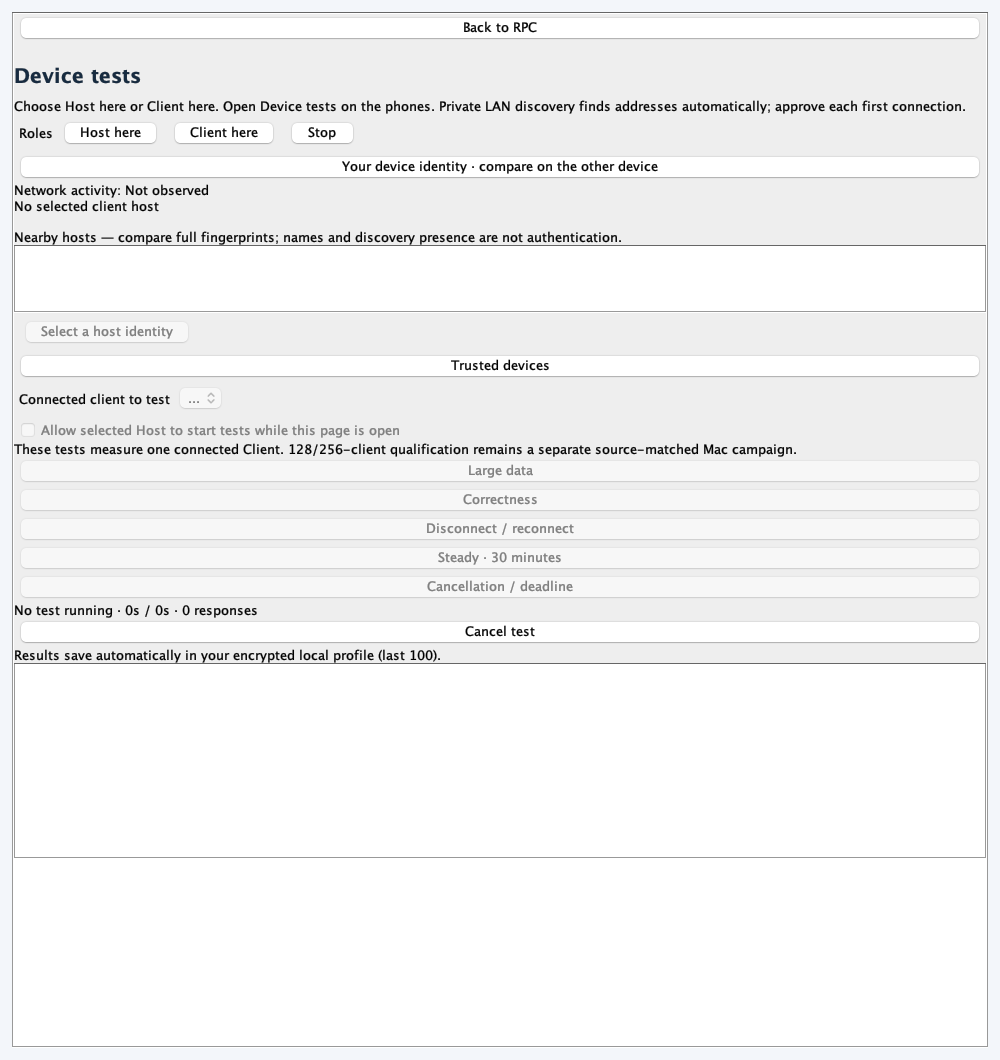
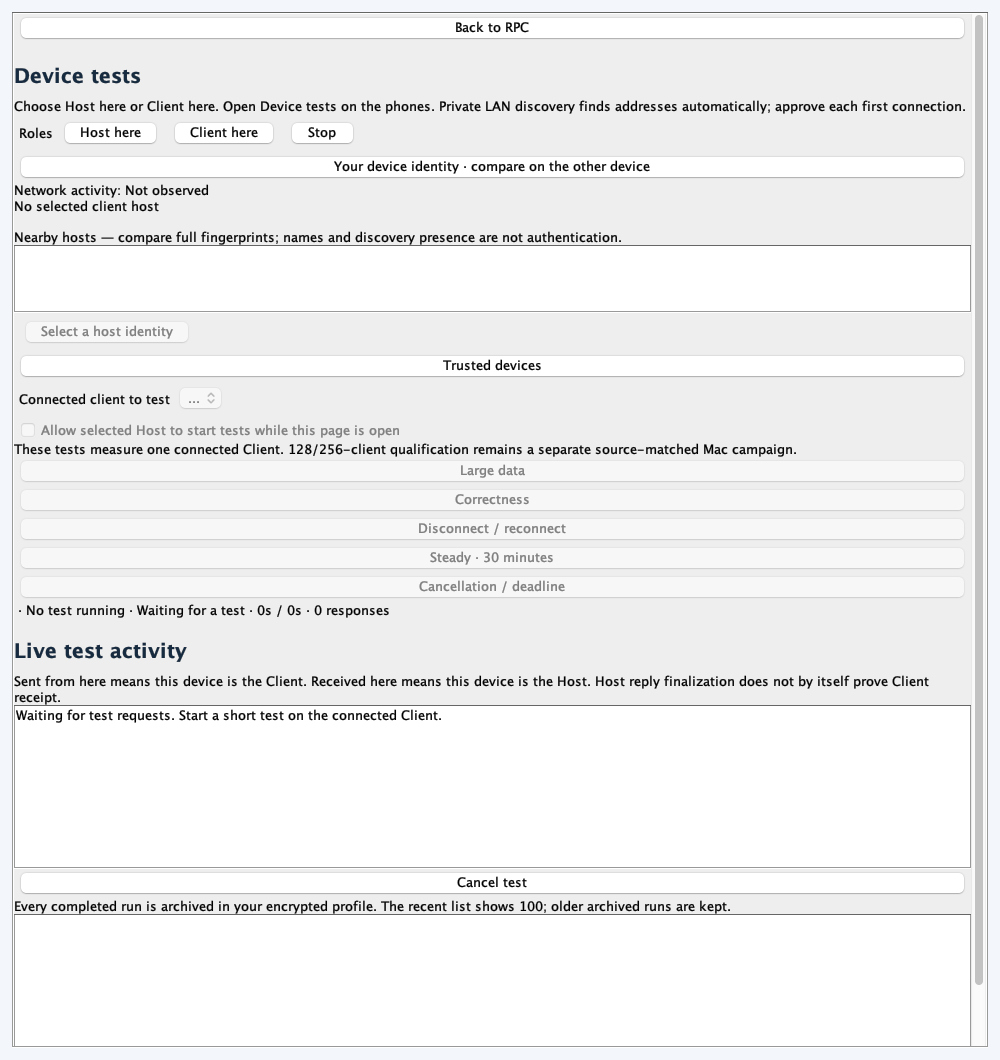
Record installed RPC activity apps and permanent result archives

diff --git a/docs/validation/rpc-physical-mac-2026-10-30.md b/docs/validation/rpc-physical-mac-2026-10-30.md
@@ -1,6 +1,160 @@
 # Physical Mac RPC campaign: preparation checkpoint, 2026-10-30
 
-## November 1 latest: corrected controls installed; separate Mac profile open
+## November 1 latest: live test activity and permanent archives
+
+The owner requested visible activity on both ends of each manual test and saved
+results that can be collected after all exercises. Android, iPhone and Mac now
+show actual request/reply observations and register Client-started tests with
+the Host. Reports retain Client → Host platform direction, start time,
+initiator, run ID, phase, exact source, measured durations, correctness, latency,
+missed schedules and available resources. Bounded progress control messages are
+counted separately from workload responses. Host reply finalization alone does
+not prove Client receipt; a missing final report remains unconfirmed.
+
+Each finished or failed run has an immutable private archive. The recent list
+keeps 100 records; older archives are retained. Android/iPhone use private app
+storage, and Mac uses encrypted records plus a paged index in its protected
+profile. A full pending archive queue refuses another test rather than dropping
+results. Reopening a compact recent index preserves the richer existing archive
+and rejects altered metadata. Stop and role changes retain saved runs. App
+uninstallation or profile/data deletion can still remove them. There is no
+export button yet; controlled private collection remains a later step.
+
+All new products were prepared from clean commit
+`840a09da7bd8bf37ccf38972037a58bece645ee0`, tree
+`d5f509036e4a8d0a9132d155ddb1de6c6279e9d6`. The requested main baseline remains
+`eb6ba5da6c06a440de852477cf485264b2ab3dd3`. This documentation is maintained in
+a separate worktree and does not change the source binding of those products.
+
+| Prepared product | SHA-256 |
+| --- | --- |
[14 lines of base64/hex data omitted]
+
+Inventory digests use prefix-stripped preparation labels mapped to
+`{bytes,sha256}`, sorted keys, compact JSON and a final LF. The redundant
+`ios-executable` alias is excluded from the signed-app inventory. The complete
+52-entry preparation manifest and independently verified immutable product
+archive stay private with original signing and command evidence.
+
+Exact-source preparation passed **687 JVM tests and 398 Android unit tests**,
+zero failures/errors/skips, using the authoritative XML retained by the
+successful native regression receipt. Preparation, signed iPhone verification
+and desktop staging finalized with product/final/Stop zero and no owned Mac
+survivors. Regression coverage includes report metadata admission, observer
+cleanup, cancellation outcomes, permanent encrypted storage beyond the recent
+100, reopening, compact-index restoration, interruption and immutable conflicts.
+The updated Mac screenshot in the [manual guide](../rpc/manual-device-tests.md)
+is a reviewed idle render fixture from this source, without workload credit.
+
+Android's old source and installed APK were verified. Main-screen Stop completion
+was observed before the exact idle process was retired. The new APK installed,
+its installed hash readback matched, and the prior saved index remained
+byte-identical. Device tests opened without starting a workload. The private ADB
+server exited and its copied host keys retired; the original campaign keys and
+the phone's debugging authorization remain available. The owner's ADB server
+and keys were preserved. Screen protection remains enabled.
+
+The old iPhone's source-bound main screen independently showed No active role,
+completed owned Stop cleanup and disabled Stop. Only that stopped app process
+was retired, and absence was verified. USB installation of the exact new signed
+app succeeded; its prior saved index remained byte-identical. The subsequent
+launch failed with CoreDevice/FBS security errors citing signature, entitlements
+or developer-app trust. Local strict signature verification passed. Both old
+and new apps have identical signed entitlements and the same valid provisioning
+profile/developer certificate, and the actual phone is provisioned. The profile's
+wildcard application identifier admits the signed bundle identifier; an earlier
+literal-suffix diagnostic was insufficient and is retained as superseded review.
+After the requested physical developer-app trust review, the owner opened the
+installed app successfully. A fresh exact-device process observation and
+screenshot confirmed it running, with No active role and disabled Stop. This
+observation finalized product/final/Stop zero, without starting a role or
+workload. It establishes a working manual launch; installed-executable readback
+is still unmeasured, and the initial security error's precise cause remains
+unconfirmed. No replacement build or blind reinstallation was performed.
+
+The new source-matched Mac window is running in a fresh separate private test
+profile. The owner chooses a new 12–128-character passphrase in Create profile.
+An older Mac window's process retained its profile lease after operator close
+replies. Its read-only thread inspection showed idle AWT loops but did not prove
+retirement. That old process and profile were preserved; their verified shutdown
+remains a cleanup blocker. No role or workload was automatically started in the
+new apps.
+
+After the final iPhone observation, the separate build worker was explicitly
+retired with exit zero and its process absence verified. Both preparation
+states had no pending phone lease. The owner-started apps remain available.
+The documentation passed `git diff --check` and the Markdown link check:
+1,018 relative links across 176 active files, with its embedded policy checks.
+
+Original failures are retained separately:
+
+- The first activity revision had one invalid immutability test fixture: it
+  proposed an invalid Completed result. The fixture now proposes a valid
+  conflicting result and verifies preservation of the original failure.
+- An online preparation passed JVM regressions but failed Android dependency
+  resolution at the repository DNS route. An offline retry then exhausted disk
+  space and was interrupted, with failed capture and no complete current XML.
+  A Windows assertion appeared in the interrupted stream; its cause is not
+  established from stale reports. Both native attempts retained their failures
+  and finalized Stop with no owned survivors.
+- Only inactive task-created dependency caches were retired after ownership and
+  lock checks, recovering about 17 GiB. Evidence, prepared products, signing,
+  phone data and profiles were preserved. A reviewed sealed external dependency
+  snapshot seeded the writable cache; the original read-only cache was restored
+  before the successful strictly verified source build.
+- Android update attempts refused because the app was not visibly stopped, then
+  because preservation code misread an integer exit status. No installation
+  occurred in those refused attempts. The corrected attempt verified Stop,
+  preserved data and succeeded. The iPhone launch rejection remains original
+  failed evidence despite the preceding successful installation.
+
+The original failed-launch checkpoint captured 57% and charging; the successful
+opened-app screen later showed 82% and charging. Neither has a measured
+current/thermal series or establishes current Wi-Fi readiness or battery
+discharge. No physical workload resource measurements were collected for this
+source. The owner starts tests manually in the six directions documented in the
+guide, reports failures immediately, and can request private collection after
+finishing.
+
+| Phone Host | Capacity | Capacity phases | Separate measured steady | Workload/resources |
+| --- | ---: | --- | --- | --- |
+| Android | 128 | Unrun on this source | 0/1800s | Unavailable |
+| Android | 256 | Unrun | 0/1800s | Unavailable |
+| iPhone | 128 | Unrun on this source | 0/1800s | Unavailable |
+| iPhone | 256 | Unrun | 0/1800s | Unavailable |
+
+The manual screen measures one connected Client per run. Capacity correctness,
+throughput, p95/p99, missed schedules, phone CPU/memory/threads, connected-idle
+overhead, post-Stop drain and separate Mac generator utilization remain
+unqualified. The actual role matrix, simultaneous 255 Mac plus one phone,
+genuine socket backpressure, long mixed faults, authorization/revocation,
+fairness and reviewed unplugged discharge remain pending. Four separate capacity
+steady runs still require two hours of measured workload. #525 remains open;
+no new qualification acceptance checkbox was checked.
+
+Product-source [CI 41276959729](https://github.com/p2pKit/P2pKit/actions/runs/41276959729)
+passed source, dependencies, JVM Linux/Windows, Android, Apple ARM64/x64, Desktop
+Linux/Windows/macOS, security, compatibility and consumers. **macos-shared and
+complete-gate failed; aggregate qualification was skipped.** The private hosted
+evidence key is unavailable on this Mac, and public failed-log retrieval also
+failed. The underlying shared-component cause is unconfirmed. The PR stays
+draft until required checks pass. No tag, publication, VPS work, cancelled full
+audit or deferred #520 investigation was performed.
+
+## November 1 earlier: corrected controls installed; separate Mac profile open
 
 Android and iPhone have been updated for the owner's manual Device tests
 workflow. The iPhone Host, Client and Stop buttons now have explicit SwiftUI

diff --git a/docs/rpc/manual-device-tests.md b/docs/rpc/manual-device-tests.md
@@ -91,8 +91,9 @@ default profile.
 
 ## Screenshots
 
-The Mac image is an idle UI render fixture from the prepared source. The iPhone
-image shows source `3231b843` installed on the physical iPhone, with its Device
+The Mac image is an idle UI render fixture from prepared source `840a09da`,
+including the Live test activity panel and permanent-archive explanation. The iPhone
+image shows source `840a09da` installed on the physical iPhone, with its Device
 tests entry and no active role.
 Neither image is workload evidence. Android's protected screen refused automated
 capture; its private UI observation verified the page and all five buttons.
